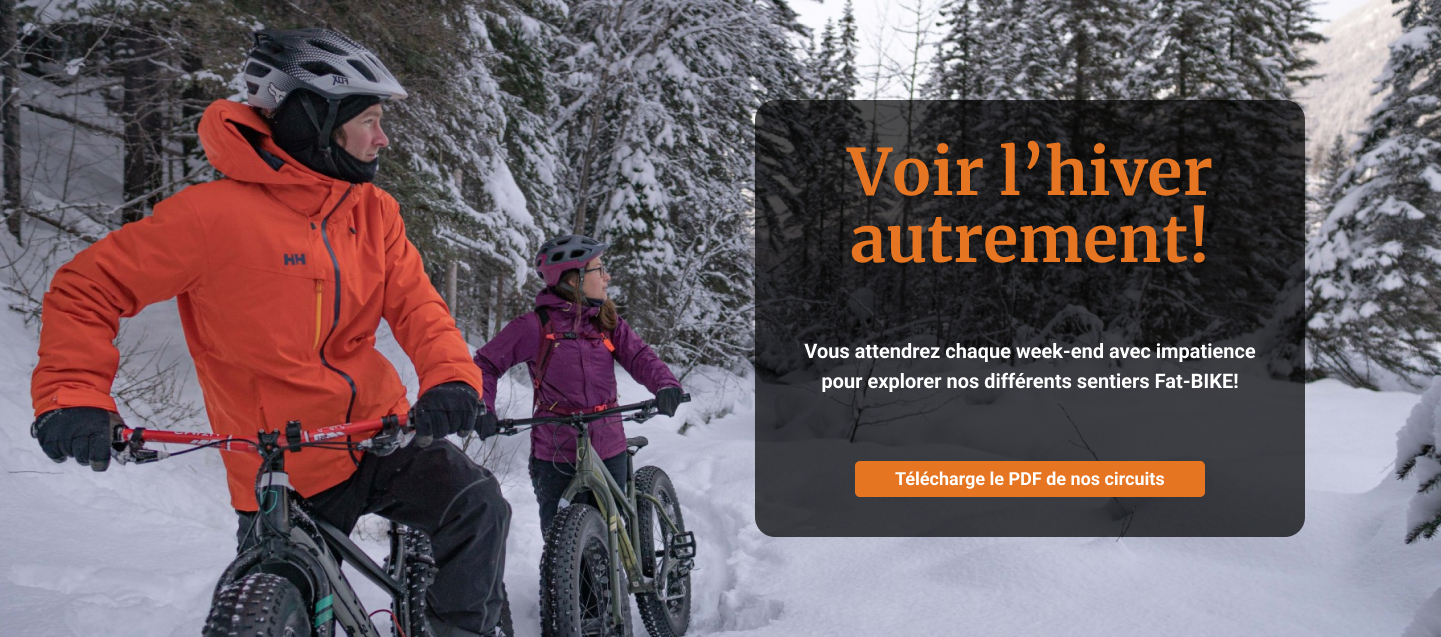
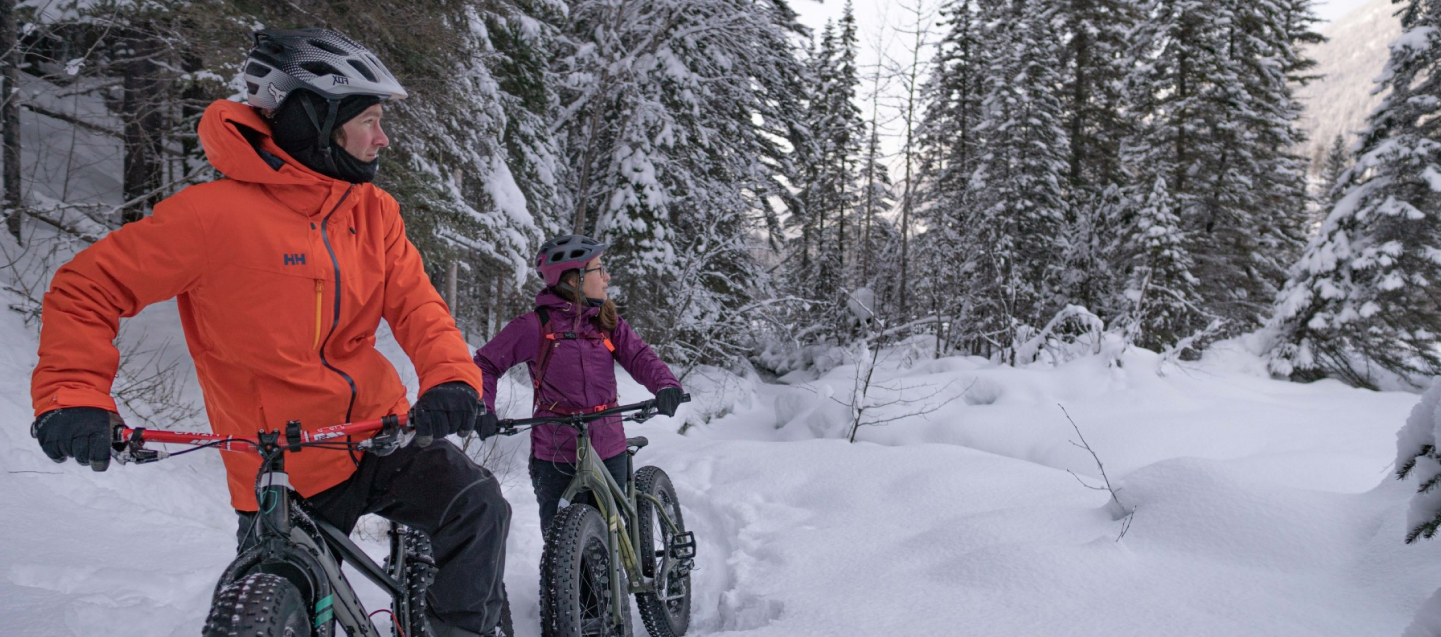
css quasiment terminé

Changed region(s): [[0.4997, 0.1491, 0.9056, 0.865]]

diff --git a/index.html b/index.html
@@ -6,9 +6,7 @@
 
     <link rel="stylesheet" href="css/normalize.css">
 
-    <link rel="stylesheet" href="https://fonts.googleapis.com/css2?family=Material+Symbols+Outlined:opsz,wght,FILL,GRAD@24,400,1,0&icon_names=directions_bike" />
-    <link rel="stylesheet" href="https://fonts.googleapis.com/css2?family=Material+Symbols+Outlined:opsz,wght,FILL,GRAD@24,400,1,0&icon_names=ac_unit" />
-    <link rel="stylesheet" href="https://fonts.googleapis.com/css2?family=Material+Symbols+Outlined:opsz,wght,FILL,GRAD@24,400,1,0&icon_names=group" />
+    <link rel="stylesheet" href="https://fonts.googleapis.com/css2?family=Material+Symbols+Outlined:opsz,wght,FILL,GRAD@20..48,100..700,0..1,-50..200" />
 
     <link rel="preconnect" href="https://fonts.googleapis.com">
     <link rel="preconnect" href="https://fonts.gstatic.com" crossorigin>
@@ -37,40 +35,47 @@
 
     <section class="hero">
         <div class="wrapper">
-            <h1>Voir l’hiver autrement!</h1>
-            <p>Vous attendrez chaque week-end avec impatience pour explorer nos différents sentiers Fat-BIKE!</p>
-            <a href="">Télécharge le PDF de nos circuits</a> 
+            <div class="boite-hero">
+                <h1>Voir l’hiver autrement!</h1>
+                <p>Vous attendrez chaque week-end avec impatience pour explorer nos différents sentiers Fat-BIKE!</p>
+                <a href="" class="btn">Télécharge le PDF de nos circuits</a>  
+            </div>
         </div>
-
     </section>
 
     <section class="contenu">
         <div class="wrapper">
-            <h2>Nos circuits Fat-bike</h2>
-            <p>Conçus pour tous les goûts et pour vous faire vivre des expériences différentes, 
-            nos choix de circuits sont adaptés à vos goûts et équipements.
-             Goût du risque ? Ou au contraire, goût de faire une balade en forêt ? 
-             Un circuit existe pour vos!</p>
+            <div class="titre">
+                <h2>Nos circuits Fat-bike</h2>
+                <p>Conçus pour tous les goûts et pour vous faire vivre des expériences différentes, 
+                nos choix de circuits sont adaptés à vos goûts et équipements.
+                Goût du risque ? Ou au contraire, goût de faire une balade en forêt ? 
+                Un circuit existe pour vos!</p>
+            </div>
+
 
              <div class="articles">
                 <article class="cross-country">
+                    <img src="images/cross-country.jpg" alt="en vélo dans la neige">
                     <h3>Cross-country</h3>
                     <p>Lorem ipsum dolor sit amet, consectetur adipiscing elit. Vivamus quis orci auctor, mattis velit vel.</p>
-                    <a href="">En savoir plus</a>
+                    <a href="" class="btn">En savoir plus</a>
                 </article>
 
                 <article class="descente">
+                    <img src="images/descente.jpg" alt="en vélo dans la neige">
                     <h3>Descente</h3>
                     <p>Vestibulum sodales nisl quis nulla mattis tempor. 
                         Nulla nec lacus consequat, accumsan est quis, tempor justo. In ut suscipit magna.</p>
                     <p>Donec pharetra risus sit amet erat molestie ultricies. Non tellus eget.</p>
-                    <a href="">En savoir plus</a>
+                    <a href="" class="btn">En savoir plus</a>
                 </article>
 
                 <article class="acrobatique">
+                    <img src="images/acrobatique.jpg" alt="en vélo dans la neige">
                     <h3>Acrobatique</h3>
                     <p> In ut suscipit magna. Donec pharetra risus sit amet erat molestie ultricies. Suspendisse pellentesque magna vel gravida lobortis.</p>
-                    <a href="">En savoir plus</a>
+                    <a href="" class="btn">En savoir plus</a>
                 </article>
              </div>
         </div>
@@ -78,18 +83,23 @@
 
     <footer>
         <div class="wrapper">
-            <span class="material-symbols-outlined">
-                directions_bike
-                </span>
-            <span class="material-symbols-outlined">
-                ac_unit
-                </span>
-            <span class="material-symbols-outlined">
-                group
-                </span>
+           <div class="icones">
+                <span class="material-symbols-outlined">
+                    directions_bike
+                    </span>
+
+                <span class="material-symbols-outlined">
+                    ac_unit
+                    </span>
+
+                <span class="material-symbols-outlined">
+                    group
+                    </span>
+            </div>
                 <p>Marie-France Turcotte© 2022 — Vélo 4 saisons</p>
         </div>
     </footer>
+    <div class="modale"></div>
     
 </body>
 </html>

diff --git a/css/styles.css b/css/styles.css
@@ -1,0 +1,188 @@
+/*=====================================
+                Base
+=====================================*/
+html {
+    box-sizing: border-box;
+    font-size: 62.5%;
+}
+
+*,
+*:before,
+*:after {
+    box-sizing: inherit;
+}
+
+body{
+    font: normal 400 1.8rem "Roboto", sans-serif;
+}
+a{
+    text-decoration: none;
+}
+.wrapper{
+    max-width: 1000px;
+    margin-left: auto;
+    margin-right: auto;
+}
+.btn{
+    display: inline-block;
+    border-radius: 5px;
+    border: 2px solid #000;
+    padding: 10px 20px;
+}
+/*===================================
+            Composantes
+===================================*/
+
+/*------------Header---------------*/
+header{
+    background-color: #379AE3;
+    font: normal 700 1.8rem "Roboto", sans-serif;
+}
+header .wrapper{
+    display: flex;
+    justify-content: space-between;
+    align-items: center;
+}
+.logo{
+     font: normal 700 2.4rem "Merriweather", serif;
+}
+header ul{
+    display: flex;
+    list-style: none;
+    gap: 40px;
+}
+header a{
+    color: #000;
+}
+header ul a:hover{
+    color: #fff;
+}
+header .btn{
+    background-color: #fff;
+}
+
+/*------------Hero-------------*/
+.hero .wrapper{
+    background-image: url(../images/hero.jpg);
+    background-size: cover;
+    background-position: bottom;
+
+    display: flex;
+    align-items: center;
+    justify-content: flex-end;
+    max-width: 1440px;
+    width: 100%;
+    height: 637px;
+}
+.hero p{
+    font: normal 700 2.0rem 150%/"Roboto", sans-serif;
+    color: #fff;
+    margin-bottom: 70px;
+}
+.boite-hero{
+    text-align: center;
+    justify-items: flex-end;
+    background-color: #00000070;
+    max-width: 550px;
+    margin-right: 135px;
+    padding: 40px 50px;
+    border-radius: 20px;
+}
+h1{
+    font: normal 700 6.4rem "Merriweather", serif;
+    color: #E67522;
+}
+.hero a{
+    display: inline-block;
+    background-color: #E67522;
+    color: #fff;
+    border: none;    
+    padding: 7px 40px;
+}
+
+/*------------Section contenu-------------*/
+.contenu{
+    padding: 100px 135px;
+    background-color: #E6EDF1;
+}
+h2{
+    font: normal 700 6.4rem "Merriweather", serif;
+    text-align: center;
+    margin: 0;
+}
+.titre p{
+    text-align: center;
+    max-width: 70%;
+    margin-left: auto;
+    margin-right: auto;
+    margin-bottom: 80px;
+}
+.articles{
+    display: grid;
+    grid-template-columns: repeat(3, 1fr);
+    gap: 30px;
+}
+article{
+    height: 785px;
+    background-color: #fff;
+
+    display: flex;
+    flex-direction: column;
+    align-items: center;
+}
+article a{
+    color: #000;
+    font: normal 700 1.8rem "Roboto", sans-serif;
+}
+article .btn{
+    margin-top: auto;
+    margin-bottom: 40px;
+    background-color: #E67522;
+}
+article p{
+    padding: 0 25px 0;
+    text-align: center;
+}
+h3{
+    font: normal 700 3.6rem "Merriweather", serif;
+}
+
+/*-----------Footer---------*/
+footer{
+    background-color: #CCDAE3;
+    padding: 50px 0;
+}
+footer p{
+    text-align: center;
+    font-size: 1.4rem;
+    margin-top: 60px;
+}
+.icones{
+    display: flex;
+    justify-content: center;
+    gap: 20px;
+}
+.icones span{
+    background-color: #E67522;
+    border-radius: 50%;
+    border: 2px solid #fff;
+    height: 90px;
+    width: 90px;
+
+    display: flex;
+    justify-content: center;
+    align-items: center;
+}
+.material-symbols-outlined{
+    font-size: 5.5rem;
+    color: #fff;  
+    
+    font-variation-settings:
+    'FILL' 1,
+    'wght' 400,
+    'GRAD' 0,
+    'opsz' 24
+}
+
+
+
